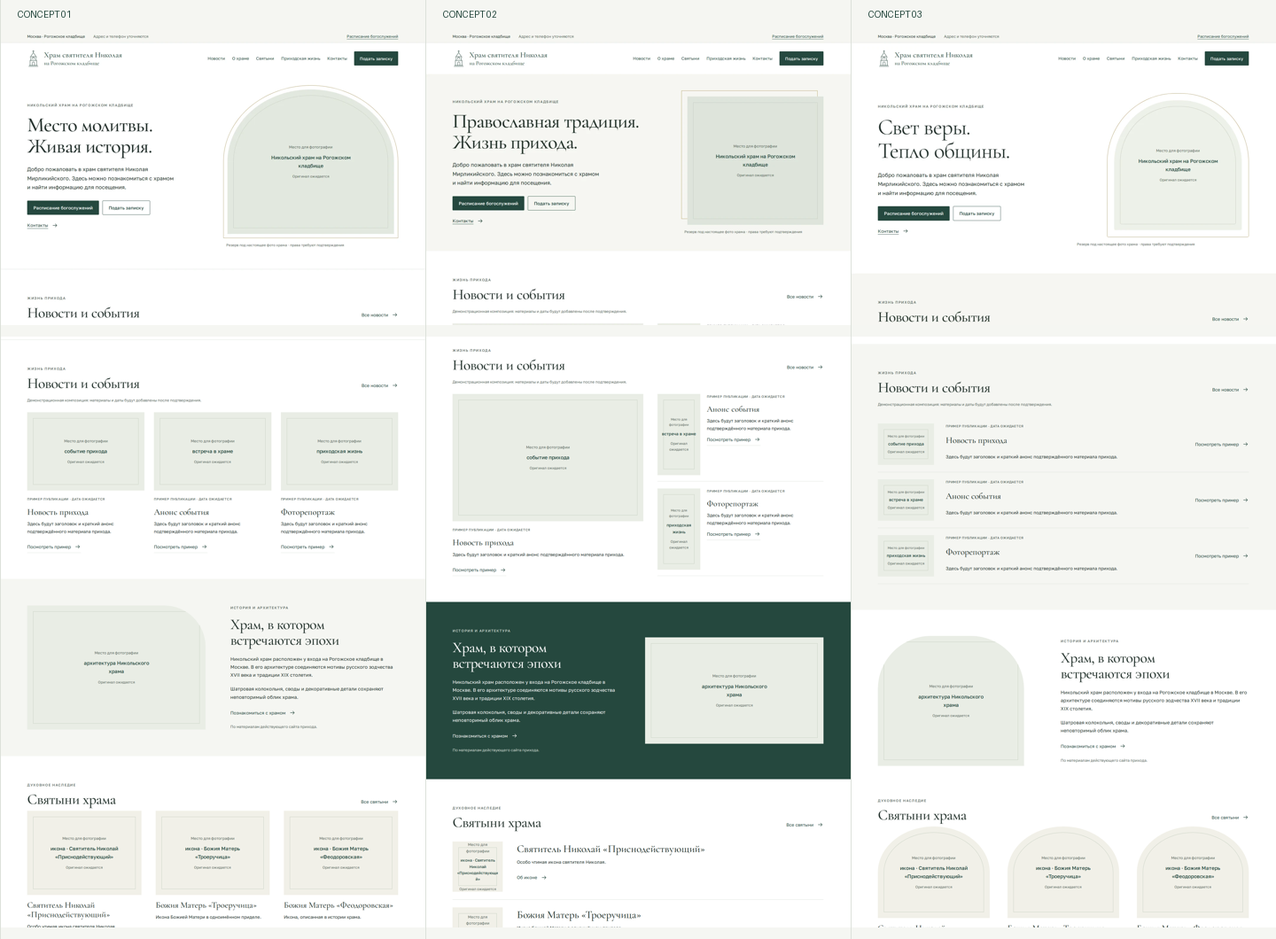
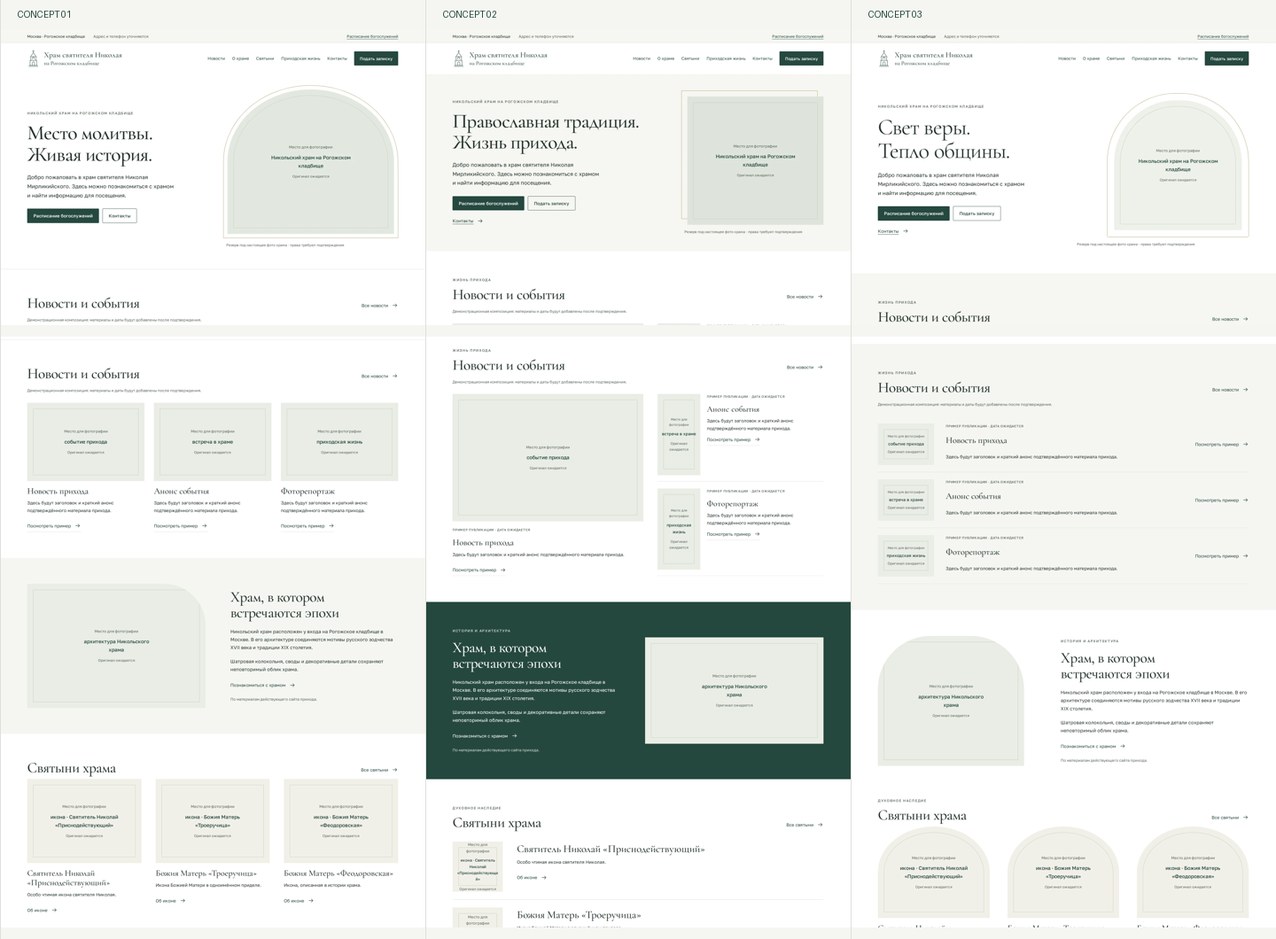
Refine selected concept 01 headings and hero contact action

diff --git a/concepts/concept-01.html b/concepts/concept-01.html
@@ -3,11 +3,11 @@
 <body class="concept-01"><a class="skip-link" href="#main">Перейти к содержанию</a>
 <header><div class="topbar"><div class="container topbar-inner"><span>Москва · Рогожское кладбище</span><span class="contact-pending">Адрес и телефон уточняются</span><button type="button" class="utility-link" data-page="Расписание богослужений" data-path="pages/schedule.html">Расписание богослужений</button></div></div>
 <div class="container main-header"><a class="brand" href="#main" aria-label="Храм святителя Николая на Рогожском кладбище"><img src="../images/temple-mark.svg" alt="" width="42" height="58"><span>Храм святителя Николая<small>на Рогожском кладбище</small></span></a><button class="menu-toggle btn btn-outline-primary" aria-expanded="false" aria-controls="primary-nav">Меню</button><nav id="primary-nav" aria-label="Основная навигация"><a href="#news">Новости</a><a href="#about">О храме</a><a href="#shrines">Святыни</a><a href="#community">Приходская жизнь</a><a href="#contacts">Контакты</a><button type="button" class="btn btn-primary" data-page="Подать записку" data-path="pages/notes.html">Подать записку</button></nav></div></header>
-<main id="main"><section class="hero"><div class="container"><div class="row align-items-center g-5"><div class="col-md-6 hero-copy"><p class="eyebrow">Никольский храм на Рогожском кладбище</p><h1>Место молитвы.<br>Живая история.</h1><p class="lead">Добро пожаловать в храм святителя Николая Мирликийского. Здесь можно познакомиться с храмом и найти информацию для посещения.</p><div class="hero-actions"><button type="button" class="btn btn-primary" data-page="Расписание богослужений" data-path="pages/schedule.html">Расписание богослужений</button><button type="button" class="btn btn-outline-primary" data-page="Подать записку" data-path="pages/notes.html">Подать записку</button><a class="text-link" href="#contacts">Контакты<svg class="arrow" viewBox="0 0 24 24" aria-hidden="true"><path d="M4 12h15m-6-6 6 6-6 6"/></svg></a></div></div><div class="col-md-6 hero-art"><div class="hero-frame"><div class="media-placeholder hero-media" role="img" aria-label="Место для фотографии: Никольский храм на Рогожском кладбище. Оригинал ожидается"><span class="media-line" aria-hidden="true"></span><span class="media-caption">Место для фотографии<br><strong>Никольский храм на Рогожском кладбище</strong><small>Оригинал ожидается</small></span></div></div><p class="photo-note">Резерв под настоящее фото храма · права требуют подтверждения</p></div></div></div></section>
-<section id="news" class="section news-section"><div class="container"><div class="section-heading"><div><p class="eyebrow">Жизнь прихода</p><h2>Новости и события</h2></div><button type="button" class="text-link" data-page="Все новости" data-path="pages/news.html">Все новости<svg class="arrow" viewBox="0 0 24 24" aria-hidden="true"><path d="M4 12h15m-6-6 6 6-6 6"/></svg></button></div><p class="demo-note">Демонстрационная композиция: материалы и даты будут добавлены после подтверждения.</p><div class="news-layout"><article class="news-item"><div class="media-placeholder news-media" role="img" aria-label="Место для фотографии: событие прихода. Оригинал ожидается"><span class="media-line" aria-hidden="true"></span><span class="media-caption">Место для фотографии<br><strong>событие прихода</strong><small>Оригинал ожидается</small></span></div><div class="news-copy"><span class="eyebrow">Пример публикации · дата ожидается</span><h3>Новость прихода</h3><p>Здесь будут заголовок и краткий анонс подтверждённого материала прихода.</p><button type="button" class="text-link" data-page="Посмотреть пример" data-path="pages/news-article.html">Посмотреть пример<svg class="arrow" viewBox="0 0 24 24" aria-hidden="true"><path d="M4 12h15m-6-6 6 6-6 6"/></svg></button></div></article><article class="news-item"><div class="media-placeholder news-media" role="img" aria-label="Место для фотографии: встреча в храме. Оригинал ожидается"><span class="media-line" aria-hidden="true"></span><span class="media-caption">Место для фотографии<br><strong>встреча в храме</strong><small>Оригинал ожидается</small></span></div><div class="news-copy"><span class="eyebrow">Пример публикации · дата ожидается</span><h3>Анонс события</h3><p>Здесь будут заголовок и краткий анонс подтверждённого материала прихода.</p><button type="button" class="text-link" data-page="Посмотреть пример" data-path="pages/news-article.html">Посмотреть пример<svg class="arrow" viewBox="0 0 24 24" aria-hidden="true"><path d="M4 12h15m-6-6 6 6-6 6"/></svg></button></div></article><article class="news-item"><div class="media-placeholder news-media" role="img" aria-label="Место для фотографии: приходская жизнь. Оригинал ожидается"><span class="media-line" aria-hidden="true"></span><span class="media-caption">Место для фотографии<br><strong>приходская жизнь</strong><small>Оригинал ожидается</small></span></div><div class="news-copy"><span class="eyebrow">Пример публикации · дата ожидается</span><h3>Фоторепортаж</h3><p>Здесь будут заголовок и краткий анонс подтверждённого материала прихода.</p><button type="button" class="text-link" data-page="Посмотреть пример" data-path="pages/news-article.html">Посмотреть пример<svg class="arrow" viewBox="0 0 24 24" aria-hidden="true"><path d="M4 12h15m-6-6 6 6-6 6"/></svg></button></div></article></div></div></section>
-<section id="about" class="section about-section"><div class="container"><div class="row align-items-center g-5"><div class="col-md-6 about-art"><div class="media-placeholder about-media" role="img" aria-label="Место для фотографии: архитектура Никольского храма. Оригинал ожидается"><span class="media-line" aria-hidden="true"></span><span class="media-caption">Место для фотографии<br><strong>архитектура Никольского храма</strong><small>Оригинал ожидается</small></span></div></div><div class="col-md-6 about-copy"><p class="eyebrow">История и архитектура</p><h2>Храм, в котором<br>встречаются эпохи</h2><p>Никольский храм расположен у входа на Рогожское кладбище в Москве. В его архитектуре соединяются мотивы русского зодчества XVII века и традиции XIX столетия.</p><p>Шатровая колокольня, своды и декоративные детали сохраняют неповторимый облик храма.</p><button type="button" class="text-link" data-page="Познакомиться с храмом" data-path="pages/about.html">Познакомиться с храмом<svg class="arrow" viewBox="0 0 24 24" aria-hidden="true"><path d="M4 12h15m-6-6 6 6-6 6"/></svg></button><p class="source-note">По материалам действующего сайта прихода.</p></div></div></div></section>
-<section id="shrines" class="section shrine-section"><div class="container"><div class="section-heading"><div><p class="eyebrow">Духовное наследие</p><h2>Святыни храма</h2></div><button type="button" class="text-link" data-page="Все святыни" data-path="pages/shrines.html">Все святыни<svg class="arrow" viewBox="0 0 24 24" aria-hidden="true"><path d="M4 12h15m-6-6 6 6-6 6"/></svg></button></div><div class="shrine-layout"><article class="shrine-item"><div class="media-placeholder shrine-media" role="img" aria-label="Место для фотографии: икона · Святитель Николай «Приснодействующий». Оригинал ожидается"><span class="media-line" aria-hidden="true"></span><span class="media-caption">Место для фотографии<br><strong>икона · Святитель Николай «Приснодействующий»</strong><small>Оригинал ожидается</small></span></div><div><h3>Святитель Николай «Приснодействующий»</h3><p>Особо чтимая икона святителя Николая.</p><button type="button" class="text-link" data-page="Об иконе" data-path="pages/shrine.html">Об иконе<svg class="arrow" viewBox="0 0 24 24" aria-hidden="true"><path d="M4 12h15m-6-6 6 6-6 6"/></svg></button></div></article><article class="shrine-item"><div class="media-placeholder shrine-media" role="img" aria-label="Место для фотографии: икона · Божия Матерь «Троеручица». Оригинал ожидается"><span class="media-line" aria-hidden="true"></span><span class="media-caption">Место для фотографии<br><strong>икона · Божия Матерь «Троеручица»</strong><small>Оригинал ожидается</small></span></div><div><h3>Божия Матерь «Троеручица»</h3><p>Икона Божией Матери в одноимённом приделе.</p><button type="button" class="text-link" data-page="Об иконе" data-path="pages/shrine.html">Об иконе<svg class="arrow" viewBox="0 0 24 24" aria-hidden="true"><path d="M4 12h15m-6-6 6 6-6 6"/></svg></button></div></article><article class="shrine-item"><div class="media-placeholder shrine-media" role="img" aria-label="Место для фотографии: икона · Божия Матерь «Феодоровская». Оригинал ожидается"><span class="media-line" aria-hidden="true"></span><span class="media-caption">Место для фотографии<br><strong>икона · Божия Матерь «Феодоровская»</strong><small>Оригинал ожидается</small></span></div><div><h3>Божия Матерь «Феодоровская»</h3><p>Икона, описанная в истории храма.</p><button type="button" class="text-link" data-page="Об иконе" data-path="pages/shrine.html">Об иконе<svg class="arrow" viewBox="0 0 24 24" aria-hidden="true"><path d="M4 12h15m-6-6 6 6-6 6"/></svg></button></div></article></div></div></section>
-<section id="community" class="section community-section"><div class="container"><div class="community-layout"><div class="community-copy"><p class="eyebrow">Вместе в приходе</p><h2>Приходская жизнь</h2><p class="lead">Вера объединяет людей.</p><p>В этом разделе будут рассказы о людях прихода, встречах и совместных делах.</p><p class="demo-note">Демонстрационный анонс. Направления деятельности и фотографии ожидают подтверждения.</p><button type="button" class="text-link" data-page="Жизнь прихода" data-path="pages/community.html">Жизнь прихода<svg class="arrow" viewBox="0 0 24 24" aria-hidden="true"><path d="M4 12h15m-6-6 6 6-6 6"/></svg></button></div><div class="media-placeholder community-media" role="img" aria-label="Место для фотографии: люди и события прихода. Оригинал ожидается"><span class="media-line" aria-hidden="true"></span><span class="media-caption">Место для фотографии<br><strong>люди и события прихода</strong><small>Оригинал ожидается</small></span></div></div></div></section>
-<section id="contacts" class="section contacts-section"><div class="container"><div class="row g-5 align-items-center"><div class="col-md-5"><p class="eyebrow">Ждём вас в храме</p><h2>Контакты и карта</h2><p class="lead">Москва<br>Рогожское кладбище</p><dl><dt>Точный адрес</dt><dd>Ожидает подтверждения</dd><dt>Телефон и часы работы</dt><dd>Ожидают подтверждения</dd></dl><button type="button" class="btn btn-outline-primary" data-page="Как добраться" data-path="pages/contacts.html">Как добраться</button></div><div class="col-md-7"><div class="map-placeholder"><span class="map-cross" aria-hidden="true"></span><strong>Яндекс Карта</strong><p>Демонстрационная заглушка</p><small>Подключим после проверки адреса.<br>Маркер не показывает реальное местоположение.</small></div></div></div></div></section></main>
+<main id="main"><section class="hero"><div class="container"><div class="row align-items-center g-5"><div class="col-md-6 hero-copy"><p class="eyebrow">Никольский храм на Рогожском кладбище</p><h1>Место молитвы.<br>Живая история.</h1><p class="lead">Добро пожаловать в храм святителя Николая Мирликийского. Здесь можно познакомиться с храмом и найти информацию для посещения.</p><div class="hero-actions"><button type="button" class="btn btn-primary" data-page="Расписание богослужений" data-path="pages/schedule.html">Расписание богослужений</button><a class="btn btn-outline-primary" href="#contacts">Контакты</a></div></div><div class="col-md-6 hero-art"><div class="hero-frame"><div class="media-placeholder hero-media" role="img" aria-label="Место для фотографии: Никольский храм на Рогожском кладбище. Оригинал ожидается"><span class="media-line" aria-hidden="true"></span><span class="media-caption">Место для фотографии<br><strong>Никольский храм на Рогожском кладбище</strong><small>Оригинал ожидается</small></span></div></div><p class="photo-note">Резерв под настоящее фото храма · права требуют подтверждения</p></div></div></div></section>
+<section id="news" class="section news-section"><div class="container"><div class="section-heading"><div><h2>Новости и события</h2></div><button type="button" class="text-link" data-page="Все новости" data-path="pages/news.html">Все новости<svg class="arrow" viewBox="0 0 24 24" aria-hidden="true"><path d="M4 12h15m-6-6 6 6-6 6"/></svg></button></div><p class="demo-note">Демонстрационная композиция: материалы и даты будут добавлены после подтверждения.</p><div class="news-layout"><article class="news-item"><div class="media-placeholder news-media" role="img" aria-label="Место для фотографии: событие прихода. Оригинал ожидается"><span class="media-line" aria-hidden="true"></span><span class="media-caption">Место для фотографии<br><strong>событие прихода</strong><small>Оригинал ожидается</small></span></div><div class="news-copy"><h3>Новость прихода</h3><p>Здесь будут заголовок и краткий анонс подтверждённого материала прихода.</p><button type="button" class="text-link" data-page="Посмотреть пример" data-path="pages/news-article.html">Посмотреть пример<svg class="arrow" viewBox="0 0 24 24" aria-hidden="true"><path d="M4 12h15m-6-6 6 6-6 6"/></svg></button></div></article><article class="news-item"><div class="media-placeholder news-media" role="img" aria-label="Место для фотографии: встреча в храме. Оригинал ожидается"><span class="media-line" aria-hidden="true"></span><span class="media-caption">Место для фотографии<br><strong>встреча в храме</strong><small>Оригинал ожидается</small></span></div><div class="news-copy"><h3>Анонс события</h3><p>Здесь будут заголовок и краткий анонс подтверждённого материала прихода.</p><button type="button" class="text-link" data-page="Посмотреть пример" data-path="pages/news-article.html">Посмотреть пример<svg class="arrow" viewBox="0 0 24 24" aria-hidden="true"><path d="M4 12h15m-6-6 6 6-6 6"/></svg></button></div></article><article class="news-item"><div class="media-placeholder news-media" role="img" aria-label="Место для фотографии: приходская жизнь. Оригинал ожидается"><span class="media-line" aria-hidden="true"></span><span class="media-caption">Место для фотографии<br><strong>приходская жизнь</strong><small>Оригинал ожидается</small></span></div><div class="news-copy"><h3>Фоторепортаж</h3><p>Здесь будут заголовок и краткий анонс подтверждённого материала прихода.</p><button type="button" class="text-link" data-page="Посмотреть пример" data-path="pages/news-article.html">Посмотреть пример<svg class="arrow" viewBox="0 0 24 24" aria-hidden="true"><path d="M4 12h15m-6-6 6 6-6 6"/></svg></button></div></article></div></div></section>
+<section id="about" class="section about-section"><div class="container"><div class="row align-items-center g-5"><div class="col-md-6 about-art"><div class="media-placeholder about-media" role="img" aria-label="Место для фотографии: архитектура Никольского храма. Оригинал ожидается"><span class="media-line" aria-hidden="true"></span><span class="media-caption">Место для фотографии<br><strong>архитектура Никольского храма</strong><small>Оригинал ожидается</small></span></div></div><div class="col-md-6 about-copy"><h2>Храм, в котором<br>встречаются эпохи</h2><p>Никольский храм расположен у входа на Рогожское кладбище в Москве. В его архитектуре соединяются мотивы русского зодчества XVII века и традиции XIX столетия.</p><p>Шатровая колокольня, своды и декоративные детали сохраняют неповторимый облик храма.</p><button type="button" class="text-link" data-page="Познакомиться с храмом" data-path="pages/about.html">Познакомиться с храмом<svg class="arrow" viewBox="0 0 24 24" aria-hidden="true"><path d="M4 12h15m-6-6 6 6-6 6"/></svg></button><p class="source-note">По материалам действующего сайта прихода.</p></div></div></div></section>
+<section id="shrines" class="section shrine-section"><div class="container"><div class="section-heading"><div><h2>Святыни храма</h2></div><button type="button" class="text-link" data-page="Все святыни" data-path="pages/shrines.html">Все святыни<svg class="arrow" viewBox="0 0 24 24" aria-hidden="true"><path d="M4 12h15m-6-6 6 6-6 6"/></svg></button></div><div class="shrine-layout"><article class="shrine-item"><div class="media-placeholder shrine-media" role="img" aria-label="Место для фотографии: икона · Святитель Николай «Приснодействующий». Оригинал ожидается"><span class="media-line" aria-hidden="true"></span><span class="media-caption">Место для фотографии<br><strong>икона · Святитель Николай «Приснодействующий»</strong><small>Оригинал ожидается</small></span></div><div><h3>Святитель Николай «Приснодействующий»</h3><p>Особо чтимая икона святителя Николая.</p><button type="button" class="text-link" data-page="Об иконе" data-path="pages/shrine.html">Об иконе<svg class="arrow" viewBox="0 0 24 24" aria-hidden="true"><path d="M4 12h15m-6-6 6 6-6 6"/></svg></button></div></article><article class="shrine-item"><div class="media-placeholder shrine-media" role="img" aria-label="Место для фотографии: икона · Божия Матерь «Троеручица». Оригинал ожидается"><span class="media-line" aria-hidden="true"></span><span class="media-caption">Место для фотографии<br><strong>икона · Божия Матерь «Троеручица»</strong><small>Оригинал ожидается</small></span></div><div><h3>Божия Матерь «Троеручица»</h3><p>Икона Божией Матери в одноимённом приделе.</p><button type="button" class="text-link" data-page="Об иконе" data-path="pages/shrine.html">Об иконе<svg class="arrow" viewBox="0 0 24 24" aria-hidden="true"><path d="M4 12h15m-6-6 6 6-6 6"/></svg></button></div></article><article class="shrine-item"><div class="media-placeholder shrine-media" role="img" aria-label="Место для фотографии: икона · Божия Матерь «Феодоровская». Оригинал ожидается"><span class="media-line" aria-hidden="true"></span><span class="media-caption">Место для фотографии<br><strong>икона · Божия Матерь «Феодоровская»</strong><small>Оригинал ожидается</small></span></div><div><h3>Божия Матерь «Феодоровская»</h3><p>Икона, описанная в истории храма.</p><button type="button" class="text-link" data-page="Об иконе" data-path="pages/shrine.html">Об иконе<svg class="arrow" viewBox="0 0 24 24" aria-hidden="true"><path d="M4 12h15m-6-6 6 6-6 6"/></svg></button></div></article></div></div></section>
+<section id="community" class="section community-section"><div class="container"><div class="community-layout"><div class="community-copy"><h2>Приходская жизнь</h2><p class="lead">Вера объединяет людей.</p><p>В этом разделе будут рассказы о людях прихода, встречах и совместных делах.</p><p class="demo-note">Демонстрационный анонс. Направления деятельности и фотографии ожидают подтверждения.</p><button type="button" class="text-link" data-page="Жизнь прихода" data-path="pages/community.html">Жизнь прихода<svg class="arrow" viewBox="0 0 24 24" aria-hidden="true"><path d="M4 12h15m-6-6 6 6-6 6"/></svg></button></div><div class="media-placeholder community-media" role="img" aria-label="Место для фотографии: люди и события прихода. Оригинал ожидается"><span class="media-line" aria-hidden="true"></span><span class="media-caption">Место для фотографии<br><strong>люди и события прихода</strong><small>Оригинал ожидается</small></span></div></div></div></section>
+<section id="contacts" class="section contacts-section"><div class="container"><div class="row g-5 align-items-center"><div class="col-md-5"><h2>Контакты и карта</h2><p class="lead">Москва<br>Рогожское кладбище</p><dl><dt>Точный адрес</dt><dd>Ожидает подтверждения</dd><dt>Телефон и часы работы</dt><dd>Ожидают подтверждения</dd></dl><button type="button" class="btn btn-outline-primary" data-page="Как добраться" data-path="pages/contacts.html">Как добраться</button></div><div class="col-md-7"><div class="map-placeholder"><span class="map-cross" aria-hidden="true"></span><strong>Яндекс Карта</strong><p>Демонстрационная заглушка</p><small>Подключим после проверки адреса.<br>Маркер не показывает реальное местоположение.</small></div></div></div></div></section></main>
 <footer><div class="container"><div class="footer-main"><div><p class="footer-brand">Храм святителя Николая<small>на Рогожском кладбище</small></p><p>Предварительная дизайн-концепция 01</p></div><nav aria-label="Навигация в подвале"><a href="#news">Новости</a><a href="#about">О храме</a><a href="#shrines">Святыни</a><a href="#community">Приходская жизнь</a><a href="#contacts">Контакты</a></nav><a class="text-link" href="index.html">К галерее концепций<svg class="arrow" viewBox="0 0 24 24" aria-hidden="true"><path d="M4 12h15m-6-6 6 6-6 6"/></svg></a></div><div class="footer-bottom"><span>Версия для согласования · Архитектурная элегантность</span><span>Знак предварительный, не официальный логотип.</span></div></div></footer>
 <dialog class="page-dialog" aria-labelledby="dialog-title"><div class="dialog-top"><p class="eyebrow">Предварительная концепция</p><button class="dialog-close" aria-label="Закрыть диалог" type="button">Закрыть</button></div><h2 id="dialog-title">Раздел в подготовке</h2><p>Эта внутренняя страница будет разработана после выбора дизайн-концепции. Расписание, формы, отправка записок и публикации пока не подключены.</p><p class="planned-path"></p><button class="btn btn-primary dialog-close" type="button">Понятно</button></dialog></body></html>

diff --git a/css/concepts.css b/css/concepts.css
@@ -21,3 +21,4 @@
 .news-media{width:100%}.compare-controls label{min-width:0}.compare-controls select{width:100%;min-width:0}
 .preview-link img{height:auto}
 @media(max-width:575px){.topbar-inner{display:grid;grid-template-columns:minmax(0,1fr) minmax(0,1fr);gap:12px}.topbar-inner .utility-link{max-width:none}}
+.hero-actions a.btn:hover{text-decoration:none}

diff --git a/specs/progress.md b/specs/progress.md
@@ -71,3 +71,12 @@ Browser-плагин со skill `browser` отсутствует, поэтому
 Diff копии hero: все требуемые подписи действий сохранены; никакого неподтверждённого расписания, телефонов или дат не добавлено. Введённые приветствия — редакционная копия концепций, не исторические утверждения. Намеренное отклонение: резервные области вместо неподтверждённых фотографий и карты, что разрешено мастер-промптом. До финального дизайна нужны оригиналы и разрешения.
 
 Не выполнялись: Lighthouse/Core Web Vitals, Safari/Firefox, screen-reader-аудит, реальный backend/формы, внешняя карта и GitHub Pages. Функциональный и визуальный QA локального frontend не выдаётся за проверку этих сценариев. Реальные screenshot-файлы превью сохранены в images/previews/; временные тестовые скрипты вне репозитория.
+
+## Выбор 01 и корректировки — 2026-10-08
+Пользователь выбрал концепцию 01. Спецификации уточнены до кода: убрать надзаголовки всех блоков/карточек, сохранив hero; заменить вторую кнопку hero на «Контакты», убрать дублирующую нижнюю ссылку. В исходном HTML вторая кнопка называлась «Подать записку» — именно она соответствует упомянутой пользователем кнопке «Подать заявку». Изменение касается только выбранной главной и её превью.
+
+- [x] Выбран базовый вариант 01.
+- [x] Удалены надзаголовки секций и карточек, сохранён только надзаголовок hero. Кнопка «Контакты» ведёт к #contacts, дубль ссылки удалён.
+- [x] Playwright: 1440/1024/768/375/320, один H1, пять секций, отсутствие overflow/битых ресурсов/JS-ошибок; меню, Escape, диалог расписания, якорь контактов и галерея работают.
+- [x] Обновлены реальное превью 01 и сводное сравнение. Визуальная проверка скриншота: подпись hero, две кнопки, отсутствие надзаголовков, сохранение типографики/палитры/секций.
+- [ ] Публикация отдельно не запрошена; настройки Pages не менялись.

diff --git a/specs/requirements.md b/specs/requirements.md
@@ -40,3 +40,6 @@ Hero: **слева** выразительный заголовок с засеч
 
 ## Уточнение исследования 2026-10-08
 Официальная главная доступна текстом. Подтверждены название, московское расположение, шатровая колокольня, архитектура с мотивами XVII века; названия икон «Приснодействующий», «Троеручица», «Феодоровская». Источник: https://nikolanarogozhke.ru/ (проверено 2026-10-08). Новости/контакты/направления прихода не переносить без проверки. Права фото не установлены; допускаются подписанные резервные области по мастер-промпту.
+
+## Выбор пользователя — 2026-10-08
+Базовое направление: концепция 01. Надзаголовки убрать во всех блоках и карточках главной, оставив только «Никольский храм на Рогожском кладбище» над H1. Hero содержит две кнопки: «Расписание богослужений» и «Контакты» (#contacts); отдельную нижнюю ссылку контактов убрать. Кнопка «Подать записку» в шапке сохраняется. Этот выбор уточняет исходное требование о трёх действиях hero. Текущий объём: корректировка выбранной концепции, без автоматической публикации и создания внутренних страниц.

diff --git a/specs/design.md b/specs/design.md
@@ -62,3 +62,6 @@ Bootstrap 5.3.x, стандартная 12-колоночная сетка. Те
 ### Уточнения после QA
 
 Микрометки 11–12px допускаются только для служебной информации; основной текст 16px, кнопки 14–15px, подписи 13px. На 320–375px бренд может переноситься внутри левой части шапки, кнопка меню справа; topbar — две равные колонки. Медиа всегда width:100% и min-width:0 для предотвращения intrinsic overflow. Bootstrap g-5 получает горизонтальный gutter 32px на узком экране. Превью галереи: height:auto с сохранением aspect-ratio. Все изменения сохраняют исходные принципы брифа.
+
+## Утверждённое направление и правки — 2026-10-08
+Пользователь выбрал 01 «Архитектурная элегантность». В concept-01 надзаголовки секций и карточек удаляются из разметки. Единственный надзаголовок в main — над «Место молитвы. Живая история». В hero вместо второй кнопки записки — контурная ссылка-кнопка «Контакты» с href="#contacts"; отдельная текстовая ссылка под кнопками удалена. Служебные пояснения к демонстрационным материалам сохраняются.
